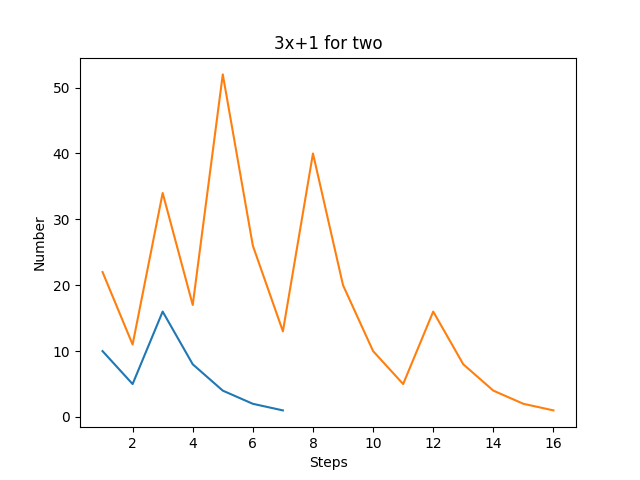
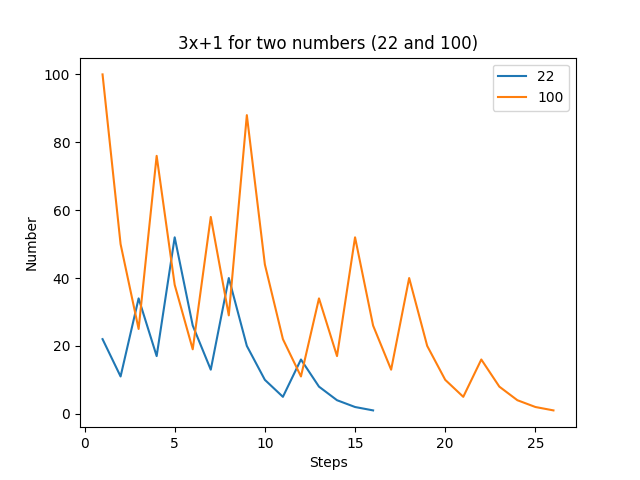
Change the output of two 3x+1

diff --git a/math/3x+1/two 3x+1.py b/math/3x+1/two 3x+1.py
@@ -3,6 +3,7 @@ import numpy as np
 import matplotlib.pyplot as plt
 
 n=int(input('Put the number to see it\'s steps: '))
+initial1=n
 contador=1
 listan1=[n]
 listaC1=[contador]
@@ -19,8 +20,9 @@ while n != 1:
     listaC1.append(contador)
 array1=np.array(listaC1)
 array2=np.array(listan1)
-plt.plot(array1,array2, label='line 1')
+plt.plot(array1,array2, label=f'{initial1}')
 n1=int(input('Put another number to see it\'s steps: '))
+initial2=n1
 contador2=1
 listan2=[n1]
 listaC2=[contador2]
@@ -37,9 +39,9 @@ while n1 != 1:
     listaC2.append(contador2)
 array3=np.array(listaC2)
 array4=np.array(listan2)
-plt.plot(array3,array4, label='line 2')
+plt.plot(array3,array4, label=f'{initial2}')
 plt.legend()
 plt.xlabel('Steps')
 plt.ylabel('Number')
-plt.title(f'3x+1 for two')
+plt.title(f'3x+1 for two numbers ({initial1} and {initial2})')
 plt.show()
